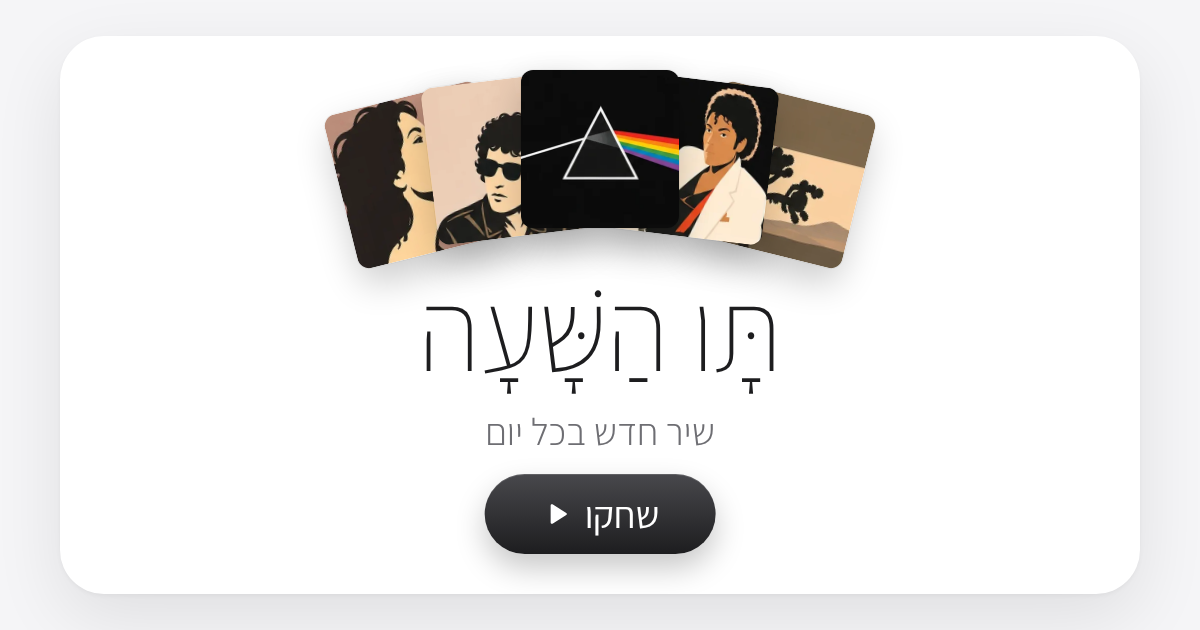
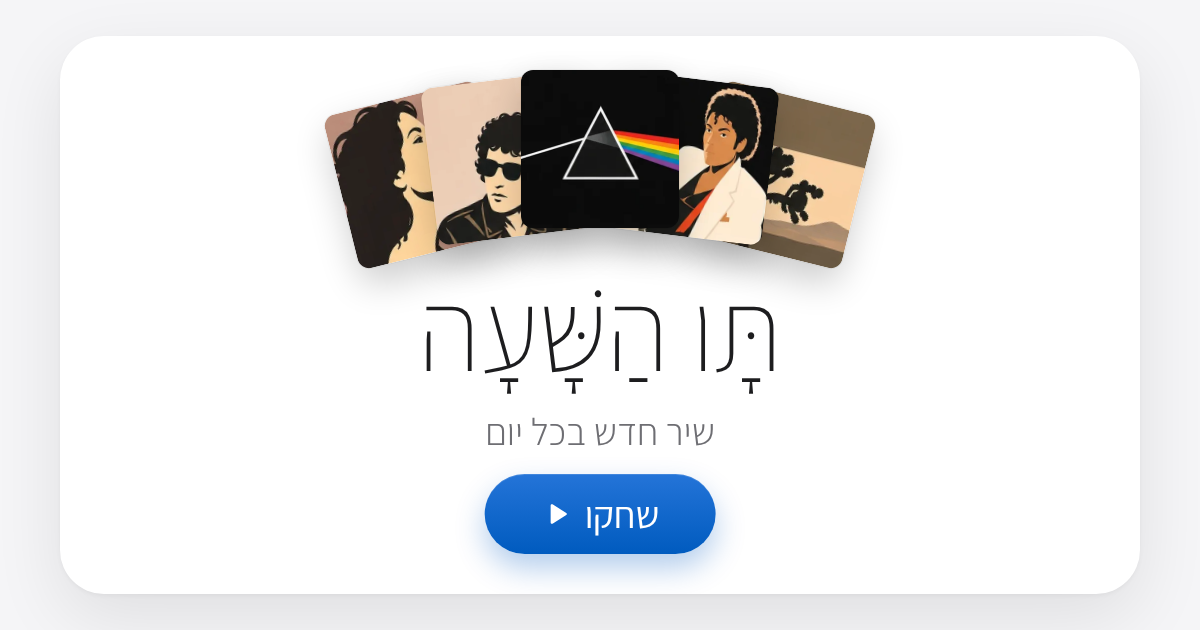
Blue buttons: the main ones, the play button and a light-blue skip
- Start, guess, share, send and the play button are blue with a subtle gradient
  (#2474d8 to #005bbf; white text 4.6:1 at its lightest) and a blue-tinted
  shadow; the rings around the play button are blue too.
- "דלגו לניסיון" is a light-blue pill (#e8f1fd) with blue text (#0066cc, 4.9:1).
- The loading arc around the play button had become invisible when the buttons
  got a gradient (a gradient is not a border colour); it is blue again.
- The link preview image's "שחקו" pill is blue as well.

Claude-Session: https://claude.ai/code/session_01AoHjZZDDJWhZrEPR356cAG

Changed region(s): [[0.4008, 0.754, 0.6167, 0.9048]]

diff --git a/index.html b/index.html
@@ -25,7 +25,8 @@
 
   /* Clean and bright: a quiet light-grey page with one white rounded card in the middle that holds everything. Near-black
      text, grey secondary text, Assistant in thin, delicate weights (titles 200, text 300, labels and buttons 400). The main buttons
-     are black (--btn) with white text. One blue accent for state, not for buttons: --accent for the progress, a right
+     and the play button are blue (--btn, a subtle gradient) with white text; the skip button light blue. Blue also
+     marks state: --accent for the progress, a right
      answer and focus (white on it 4.7:1), --accent-ink for blue link text (5.6:1 on white). Small rounded "app icon" tiles with
      gradients mark the stats and the links.
      State is still shown with fill, icons and shape as well as colour. Light only.
@@ -44,8 +45,10 @@
     --mid: #86868b;
     --accent: #0071e3;
     --accent-ink: #0066cc;
-    --btn: linear-gradient(180deg, #48484c 0%, #1d1d1f 100%);   /* the main buttons: black with a subtle gradient, white text */
-    --btn-hover: linear-gradient(180deg, #5a5a5e 0%, #2c2c2e 100%);
+    --btn: linear-gradient(180deg, #2474d8 0%, #005bbf 100%);   /* the main buttons: blue with a subtle gradient, white text (4.6:1 at its lightest) */
+    --btn-hover: linear-gradient(180deg, #2f80e4 0%, #0a66cc 100%);
+    --btn-shadow: 0, 91, 191;                       /* the colour of their shadows, as r, g, b */
+    --accent-tint: #e8f1fd;                         /* a light blue for the skip button, under blue text (4.9:1) */
     --btn-edge: inset 0 1px 0 rgba(255, 255, 255, .14);       /* a faint light top edge on them */
     --accent-l: #bcd9f7;
     --shade: 0, 0, 0;                               /* the colour of shadows, as r, g, b */
@@ -120,7 +123,7 @@
   .stage[hidden] { display: none; }
   .tl-label { text-align: center; font-size: 16px; font-weight: 400; }   /* over the progress line it describes */
 
-  /* the play button: a round black button with a white icon */
+  /* the play button: a round blue button with a white icon */
   .play {
     position: relative;
     width: 80px; height: 80px;
@@ -128,7 +131,7 @@
     background: var(--btn); color: #fff;
     cursor: pointer;
     display: block;
-    box-shadow: var(--btn-edge), 0 6px 16px rgba(var(--shade), .22);
+    box-shadow: var(--btn-edge), 0 6px 18px rgba(var(--btn-shadow), .3);
     transition: transform .12s ease, background-color .15s ease;
   }
   @media (hover: hover) { .play:hover:not(:disabled) { transform: scale(1.06); } }
@@ -140,16 +143,16 @@
   .play[data-state="playing"] .i-pause { display: block; }
   .play[data-state="playing"]::after {
     content: ""; position: absolute; inset: -6px; border-radius: 50%;
-    border: 2px solid rgba(29, 29, 31, .5); opacity: 0;
+    border: 2px solid rgba(0, 113, 227, .5); opacity: 0;
     animation: pulse 1.2s ease-out infinite;
   }
   .play.invite[data-state="idle"]::after {          /* press play: a ring that grows from it, for a clip not yet played by hand */
-    content: ""; position: absolute; inset: -5px; border-radius: 50%; border: 2px solid rgba(29, 29, 31, .45); opacity: 0; pointer-events: none;
+    content: ""; position: absolute; inset: -5px; border-radius: 50%; border: 2px solid rgba(0, 113, 227, .45); opacity: 0; pointer-events: none;
     animation: ring 2.6s ease-out infinite;
   }
   .play[data-state="loading"]::after {
     content: ""; position: absolute; inset: -6px; border-radius: 50%;
-    border: 2px solid transparent; border-top-color: var(--btn);
+    border: 2px solid transparent; border-top-color: var(--accent);
     animation: spin .8s linear infinite;
   }
   @keyframes pulse { from { transform: scale(0.9); opacity: .6; } to { transform: scale(1.3); opacity: 0; } }
@@ -217,16 +220,16 @@
   }
   .btn:active:not(:disabled) { transform: scale(0.97); }
   .btn:disabled { cursor: not-allowed; }
-  /* the main action: a black pill; disabled it turns grey */
+  /* the main action: a blue pill; disabled it turns grey */
   .btn.primary, .result .btn.share, .fb .btn.send { background: var(--btn); color: #fff; box-shadow: var(--btn-edge); }
   .btn.primary:disabled, .fb .btn.send:disabled { background: var(--soft-2); color: var(--mid); box-shadow: none; }
   @media (hover: hover) { .btn.primary:hover:not(:disabled), .result .btn.share:hover, .fb .btn.send:hover:not(:disabled) { background: var(--btn-hover); } }
   /* a second action: a grey pill with dark text */
   .btn.ghost { background: var(--soft); color: var(--ink); }
   .btn.ghost:disabled { opacity: .45; }
-  @media (hover: hover) { .btn.ghost:hover:not(:disabled), .btn.skip:hover:not(:disabled) { background: var(--soft-2); } }
-  /* "skip" sits under the play button: a small grey pill that names the attempt it leads to */
-  .btn.skip { height: 40px; padding: 0 var(--sp-4); background: var(--soft); color: var(--ink); font-size: 15px; }
+  @media (hover: hover) { .btn.ghost:hover:not(:disabled) { background: var(--soft-2); } .btn.skip:hover:not(:disabled) { background: #d8e7fb; } }
+  /* "skip" sits under the play button: a small light-blue pill that names the attempt it leads to */
+  .btn.skip { height: 40px; padding: 0 var(--sp-4); background: var(--accent-tint); color: var(--accent-ink); font-size: 15px; }
   .app.typing .btn.skip { display: none; }           /* while typing the guess, the stage is one small row */
   .hint { margin: var(--sp-1) 0 0; color: var(--muted); font-size: 13px; text-align: center; }   /* the play button's caption, 16px under it: the ring that grows from the button needs that room */   /* under the play button: playing again is free */
   .app.typing .hint { display: none; }
@@ -316,13 +319,13 @@
   .sleeve .a { fill: var(--accent); } .sleeve .l { fill: var(--accent-l); } .sleeve .i { fill: var(--ink); }
   .sleeve .p { fill: var(--paper); } .sleeve .s { fill: var(--soft-2); }
   @keyframes deal { from { transform: translate(0, 26px) rotate(0deg) scale(.7); } }
-  /* the way in: a black pill with a play icon */
+  /* the way in: a blue pill with a play icon */
   .startbtn {
     position: relative; display: inline-flex; align-items: center; justify-content: center; gap: var(--sp-2);
     min-width: 200px; height: 56px; padding: 0 var(--sp-6);
     background: var(--btn); color: #fff; border: 0; border-radius: var(--pill);
     font-size: 20px; font-weight: 400; cursor: pointer;
-    box-shadow: var(--btn-edge), 0 10px 24px rgba(var(--shade), .2);
+    box-shadow: var(--btn-edge), 0 10px 24px rgba(var(--btn-shadow), .28);
     transition: transform .12s ease, background-color .15s ease;
     animation: rise .7s cubic-bezier(.2, .8, .2, 1) .5s both;
   }
